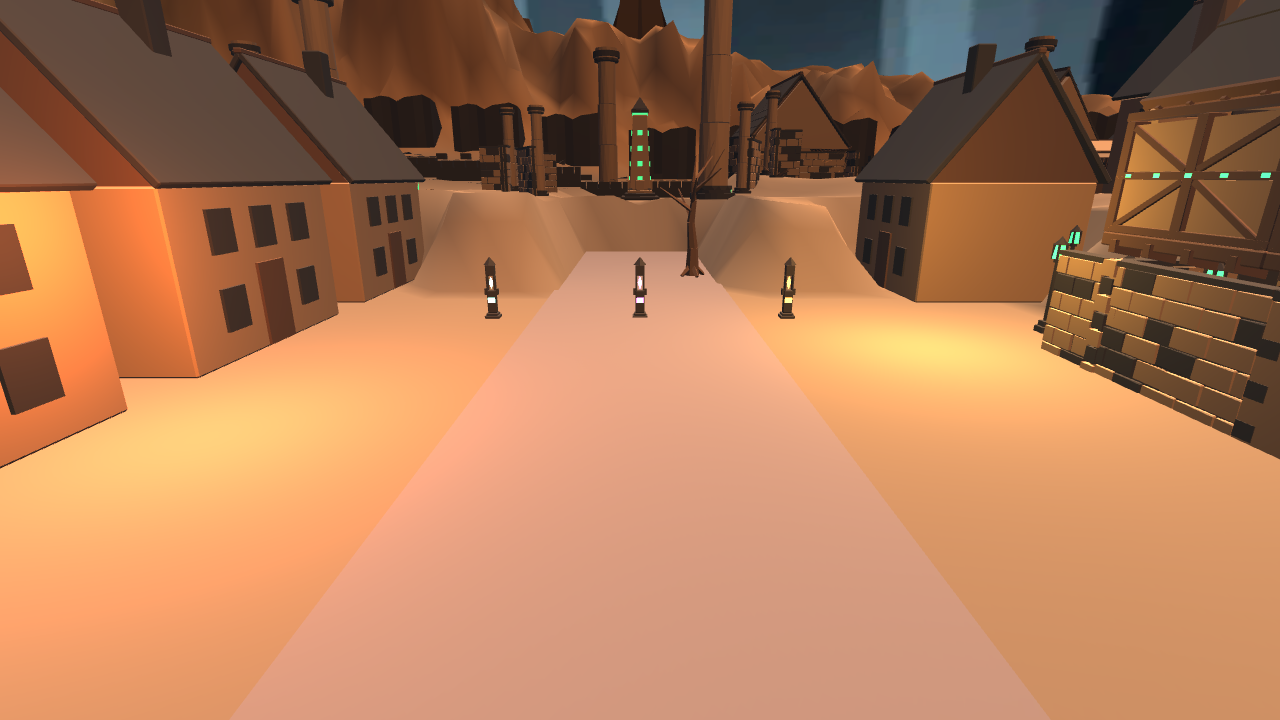
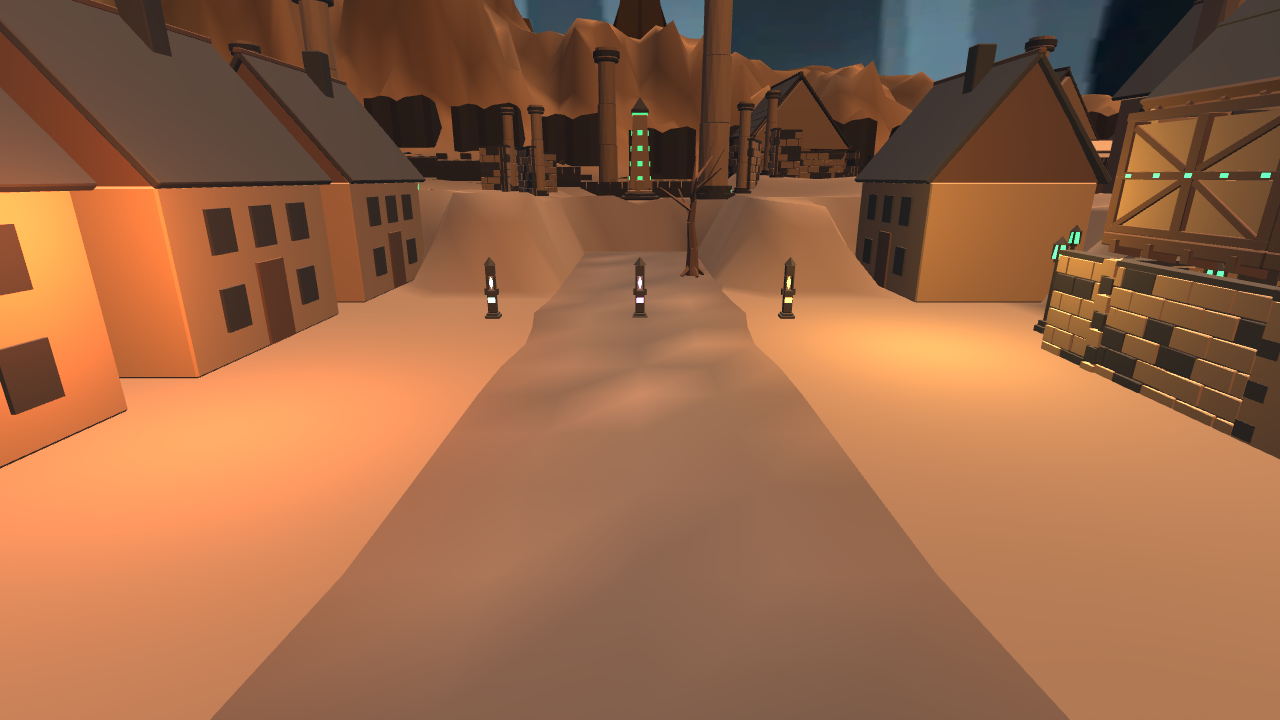
preview: 🌙 §4W.1 정련 루프 #4~#7 — 물신뢰성·기능구역 PARTIAL→MET(도심 물 재정렬+물 한정), 재질구역·무아티팩트는 도심 흙/자갈 지면+정점색 자갈 도로로 정점색 한계까지 개선. codex 판정: 조명이 정점색을 씻어내는 천장 도달 → 남은 개선은 텍스처 베이크/앰비언트/지형 apron(다음 레버). 루프 로그 plan.html에 반복별 채점 기록

diff --git a/plan.html b/plan.html
@@ -90,7 +90,7 @@
 
 <script>
 // ── plan data (edited each wave; status: done | run | wait) ─────────────────────────────
-const UPDATED = "2026-08-16 03:05 · 야근 웨이브 5 (도심 물 인지 재정렬 + §4W.1 정련 루프 상시 가동)";
+const UPDATED = "2026-08-16 03:50 · 야근 웨이브 6 (§4W.1 루프 #4~#7: 물·기능 MET, 재질/아티팩트 정점색 천장까지)";
 // §4W.1 refinement loop — a running verification HOOK (codex scores the 6 criteria each wave).
 // This is the "loop" of the paper's Stage 2.3; it does not stall — each iteration logs verdicts,
 // the lowest criterion becomes the next action, and the fix is verified in the next iteration.
@@ -101,7 +101,15 @@ const LOOPLOG = [
   { iter:2, ts:"2026-08-16 02:55", scores:["PARTIAL","PARTIAL","PARTIAL","MET","PARTIAL","PARTIAL"],
     priority:"물신뢰성", action:"수변 게이트+부두 편입으로 기능구역 FAIL→PARTIAL. 다음: 연속적 물가·번짐 제거·부두를 수면 위 기둥 데크로" },
   { iter:3, ts:"2026-08-16 03:05", scores:["PARTIAL","PARTIAL","PARTIAL→개선","MET","PARTIAL","PARTIAL"],
-    priority:"(재검증 대기)", action:"물을 의도 강·호수로 한정(번짐 제거)+부두 수면 위로. 다음 웨이브 codex 재채점 예정" },
+    priority:"(재검증)", action:"물을 의도 강·호수로 한정(번짐 제거)+부두 수면 위로" },
+  { iter:4, ts:"2026-08-16 03:20", scores:["PARTIAL","PARTIAL","MET","MET","PARTIAL","MET"],
+    priority:"재질구역", action:"물신뢰성·기능구역 MET 확정(3 MET). 도심 내부가 균일 평탄 pad → 흙/자갈 변주 주입" },
+  { iter:5, ts:"2026-08-16 03:30", scores:["PARTIAL","PARTIAL","MET","MET","PARTIAL","MET"],
+    priority:"재질구역", action:"내부 지면 변주 넣음. 남은 원인=중앙 spine이 단색 연보라 직사각형 → 도로를 정점색 자갈 그리드로" },
+  { iter:6, ts:"2026-08-16 03:40", scores:["PARTIAL","PARTIAL","MET","MET","PARTIAL","MET"],
+    priority:"무아티팩트", action:"도로 자갈 그리드로 부감 도로/지면 분리됨. 도로가 아직 깔끔한 직사각형 → 폭 불규칙화+대비 강화" },
+  { iter:7, ts:"2026-08-16 03:50", scores:["PARTIAL","PARTIAL","MET","MET","PARTIAL","MET"],
+    priority:"조명/텍스처 레버", action:"도로 불규칙화. codex 판정: 정점색 조명 천장 도달(추가 정점 튜닝은 diminishing). 남은 재질/아티팩트는 텍스처 베이크 or 앰비언트 리밸런스, 지질(절벽-도심 급단)은 지형 apron 필요 — 다음 웨이브 레버" },
 ];
 const GOAL = "<b>이번 야근 목표:</b> Figure 1의 <b>Stage 1(Intent Analysis &amp; Planning)</b>을 thorough 하게 다시 세우고, <b>Stage 2 하위 3단계(Scene Terrain Generation &amp; Refinement)</b>까지 진행한다. 계기: 침식 버전이 여태 최선이나 ①좁은 타일에 과도한 고지대 ②맵에 물이 전혀 없음 — 되짚어 보니 <b>Stage 1을 건너뛰어</b> 지형 범주(특히 물)를 의도에서 유도하지 않고 건물 중심 분할로 직행한 게 근본 원인.";
 const FOOT = "핵심 인사이트: <i>coarse-to-fine agentic framework for building explicit, explorable, and editable 3D worlds from open-ended text.</i> — 우리도 거친 지형 골조(Stage 2)부터 세우고 점진적으로 조밀화(Stage 3)하되, 그 출발점인 의도 명세(Stage 1)를 먼저 제대로 닫는다.";
